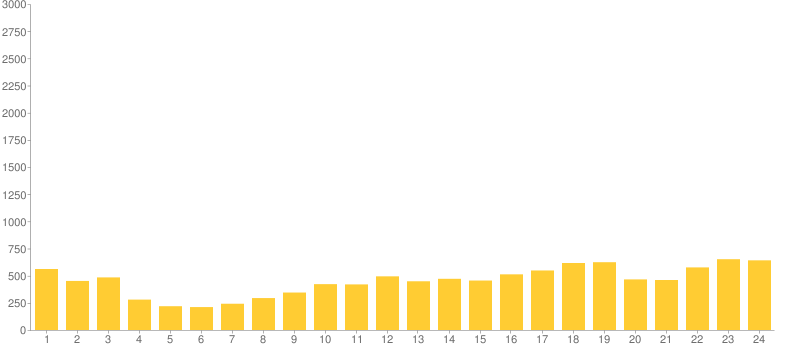
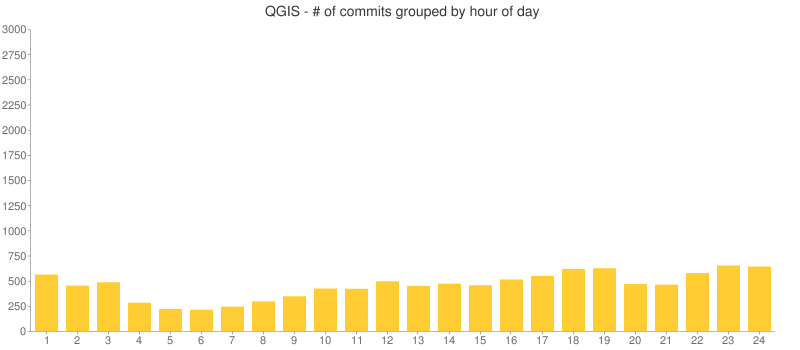
Add title to commits_grouped_by_hour graph

diff --git a/commits_grouped_by_hour.py b/commits_grouped_by_hour.py
@@ -5,6 +5,7 @@ import os
 from pygooglechart import GroupedVerticalBarChart, Axis
 
 datafile = sys.argv[1]
+name = os.path.basename(datafile)
 
 commitsfile = open(datafile, 'r')
 data_array = []
@@ -28,8 +29,7 @@ chart.add_data(data_array)
 chart.set_axis_labels('x', range(1,25))
 chart.set_axis_labels('y', range(0, 3250, 250))
 
+chart.set_title(name.split('.')[0].upper() + " - # of commits grouped by hour of day")
 print chart.get_url()
 
-name = os.path.basename(datafile)
 chart.download('images/commits_by_hour_'+str(name.split('.')[0])+'.png')
-
